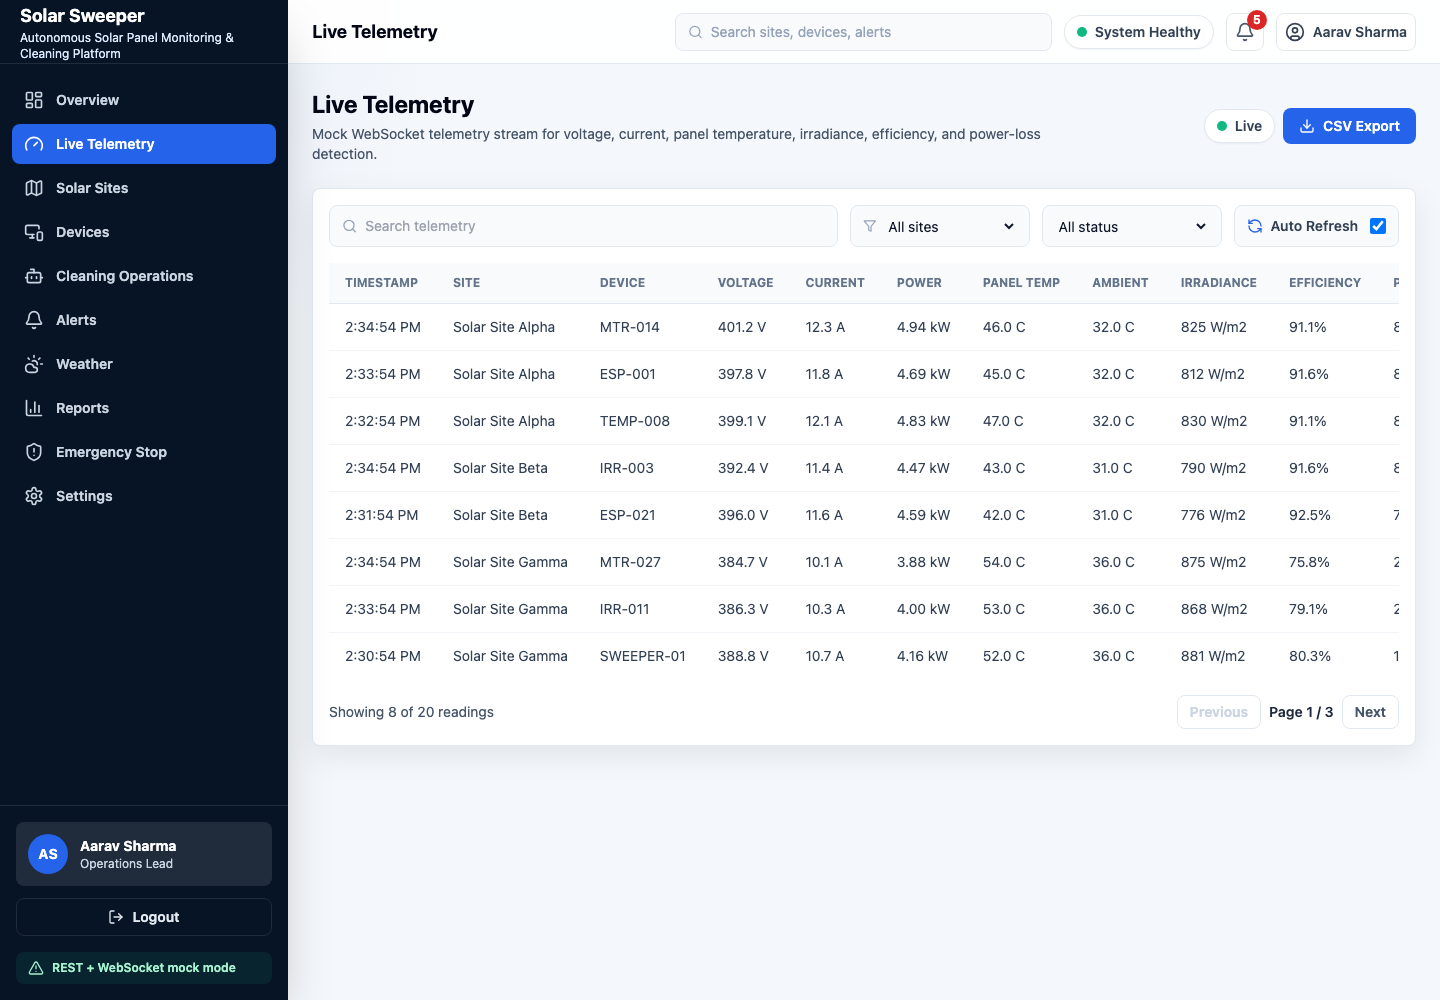
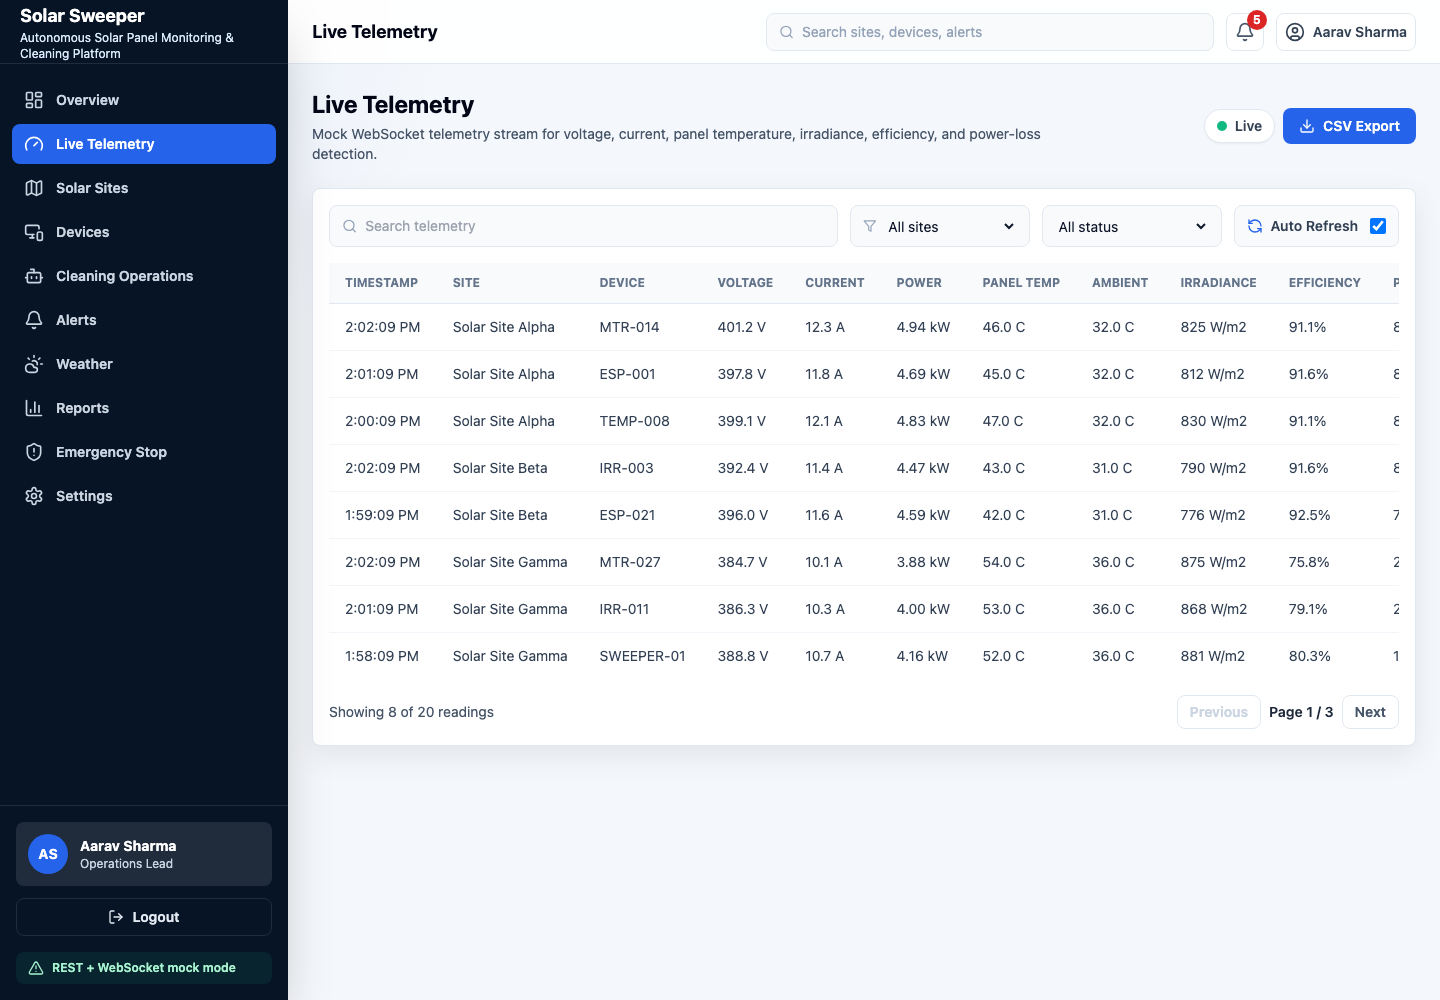
Fix dashboard card text overflow

diff --git a/src/components/StatCard.tsx b/src/components/StatCard.tsx
@@ -19,19 +19,19 @@ const toneClasses = {
 
 export function StatCard({ title, value, subtitle, trend, icon: Icon, tone = "blue" }: StatCardProps) {
   return (
-    <article className="rounded-lg border border-slate-200 bg-white p-4 shadow-card">
+    <article className="flex min-h-44 flex-col rounded-lg border border-slate-200 bg-white p-4 shadow-card">
       <div className="flex items-start justify-between gap-3">
-        <div>
-          <p className="text-sm font-medium text-slate-500">{title}</p>
-          <p className="mt-2 text-2xl font-bold text-slate-950">{value}</p>
+        <div className="min-w-0">
+          <p className="break-words text-sm font-medium leading-5 text-slate-500">{title}</p>
+          <p className="mt-2 break-words text-2xl font-bold leading-tight text-slate-950">{value}</p>
         </div>
-        <span className={`rounded-lg p-2.5 ${toneClasses[tone]}`}>
+        <span className={`flex-none rounded-lg p-2.5 ${toneClasses[tone]}`}>
           <Icon className="h-5 w-5" />
         </span>
       </div>
-      <div className="mt-4 flex items-center justify-between gap-3 text-sm">
-        <span className="font-semibold text-slate-700">{trend}</span>
-        <span className="text-right text-slate-500">{subtitle}</span>
+      <div className="mt-auto space-y-1.5 pt-4 text-sm">
+        <p className="break-words font-semibold leading-5 text-slate-700">{trend}</p>
+        <p className="break-words leading-5 text-slate-500">{subtitle}</p>
       </div>
     </article>
   );

diff --git a/src/components/TopNavbar.tsx b/src/components/TopNavbar.tsx
@@ -3,7 +3,6 @@ import { useState } from "react";
 import { useNavigate } from "react-router-dom";
 import { useAuth } from "../hooks/useAuth";
 import { useSolarData } from "../hooks/useSolarData";
-import { LiveIndicator } from "./LiveIndicator";
 
 interface TopNavbarProps {
   title: string;
@@ -40,7 +39,6 @@ export function TopNavbar({ title, onOpenSidebar }: TopNavbarProps) {
           className="ml-2 w-full bg-transparent text-sm text-slate-700 outline-none placeholder:text-slate-400"
         />
       </div>
-      <LiveIndicator live label="System Healthy" />
       <button
         type="button"
         aria-label="Open alerts"
